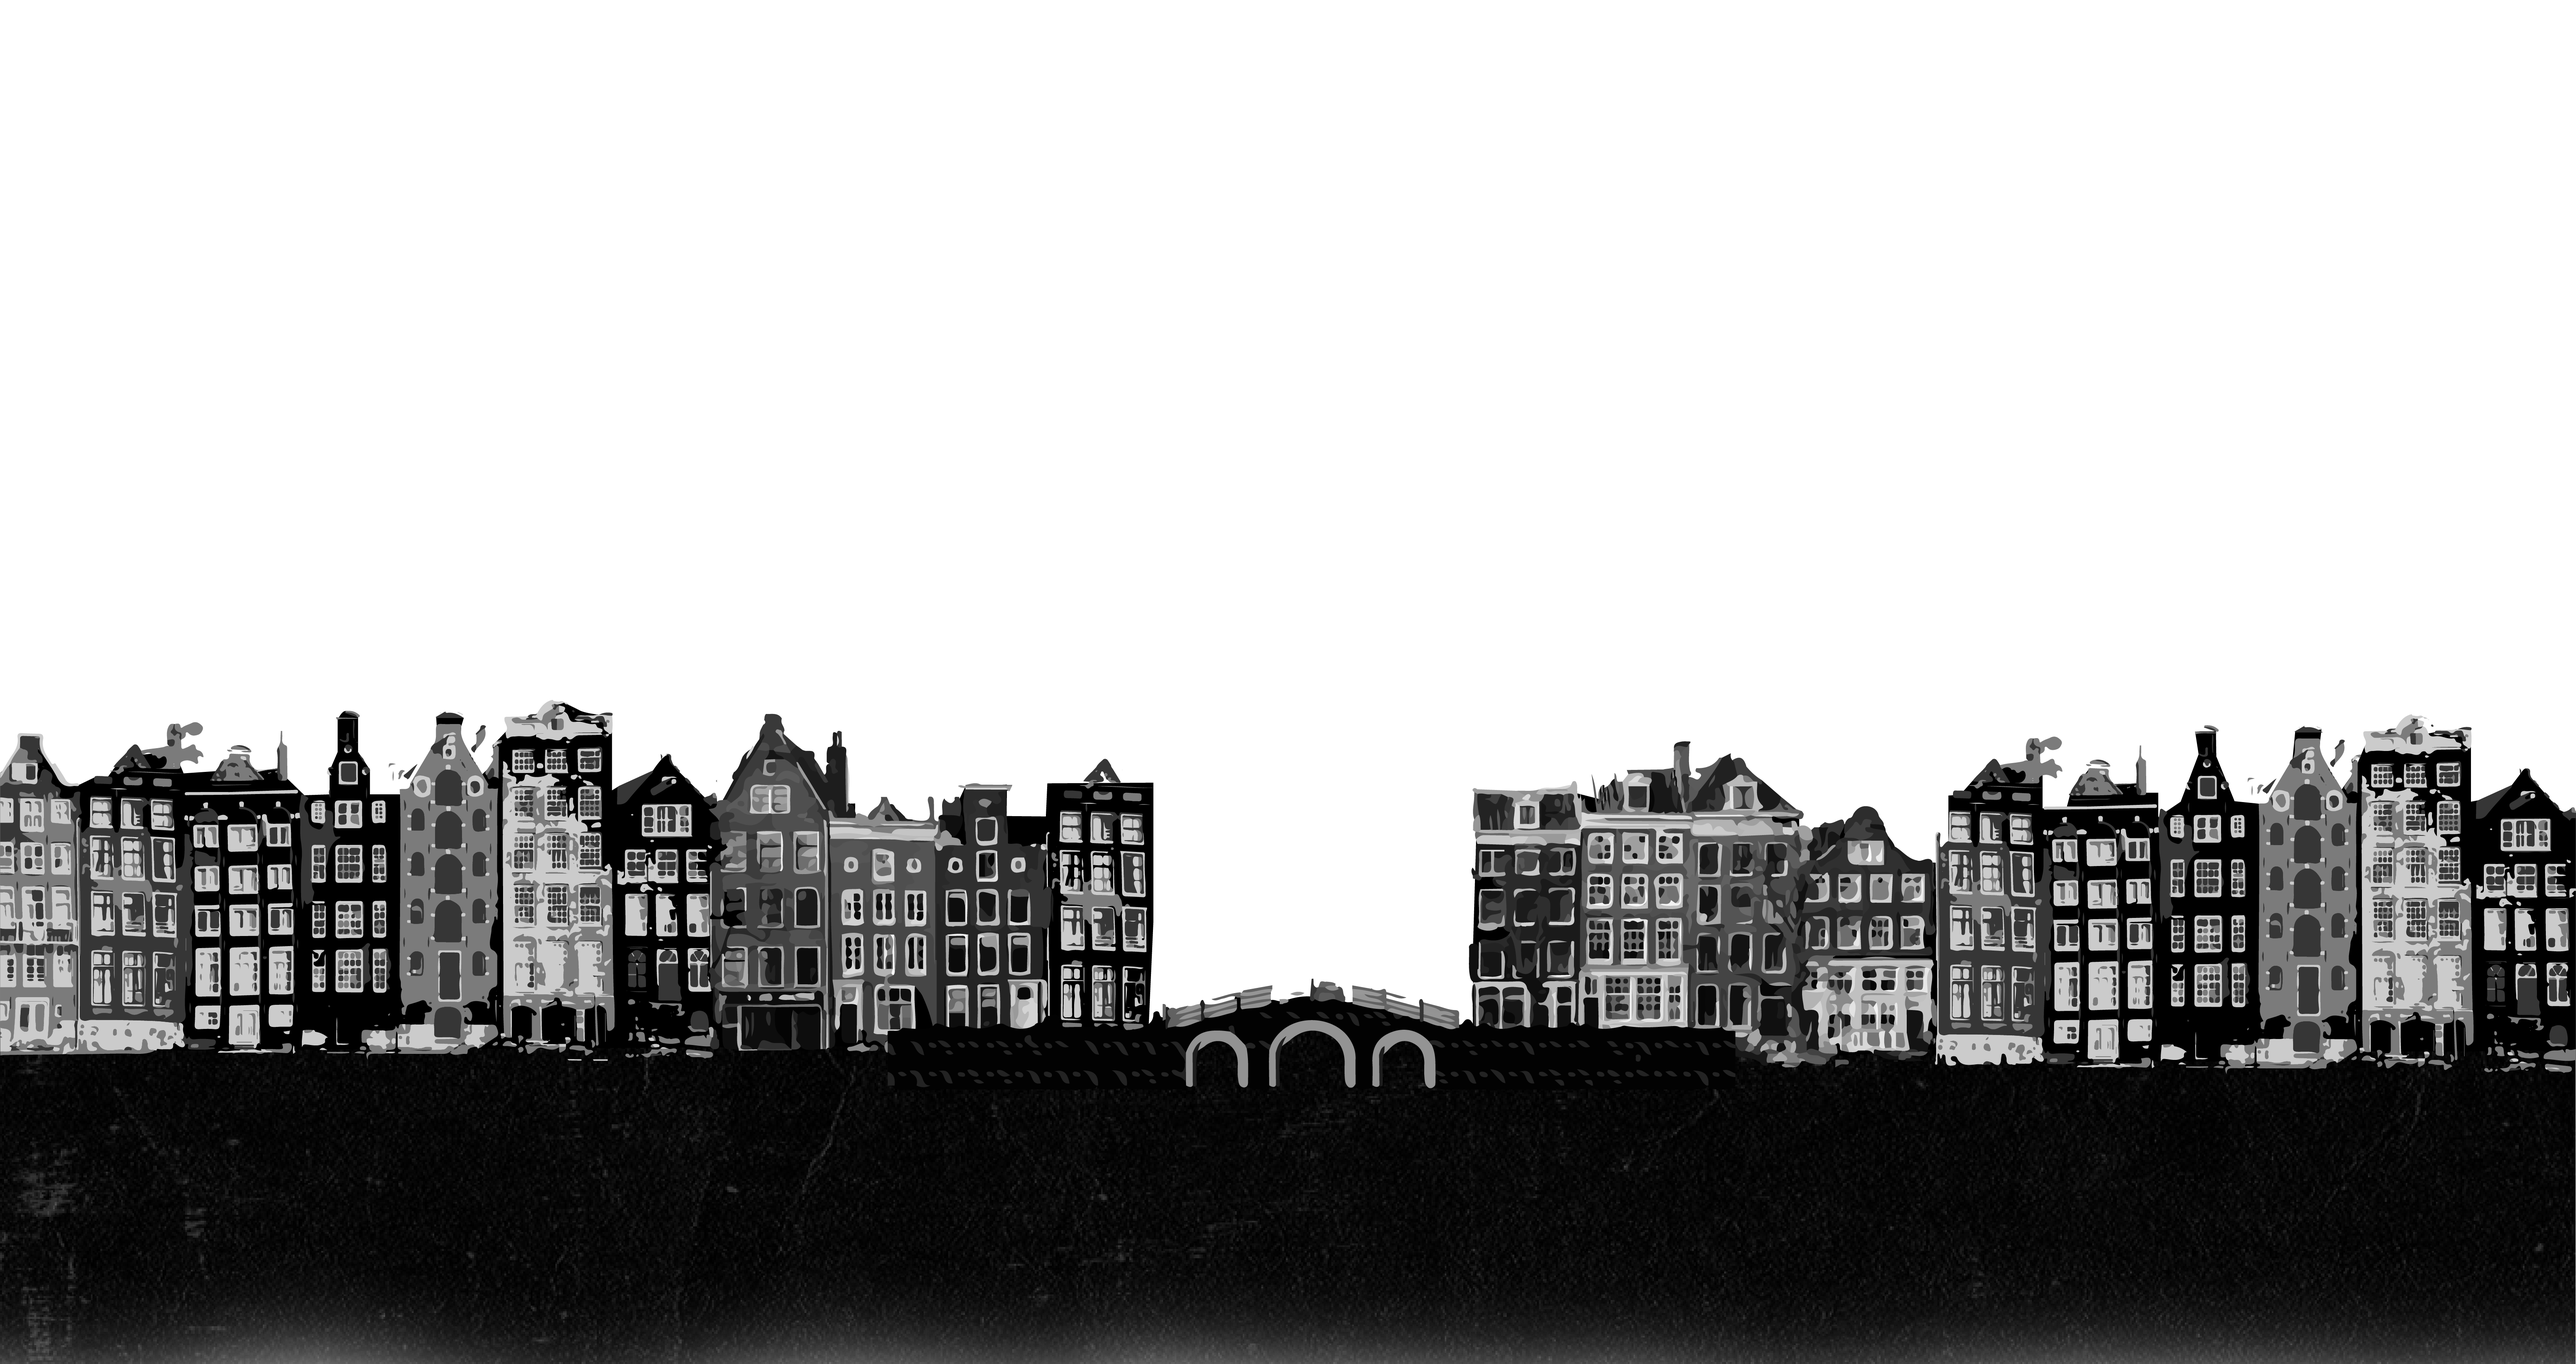
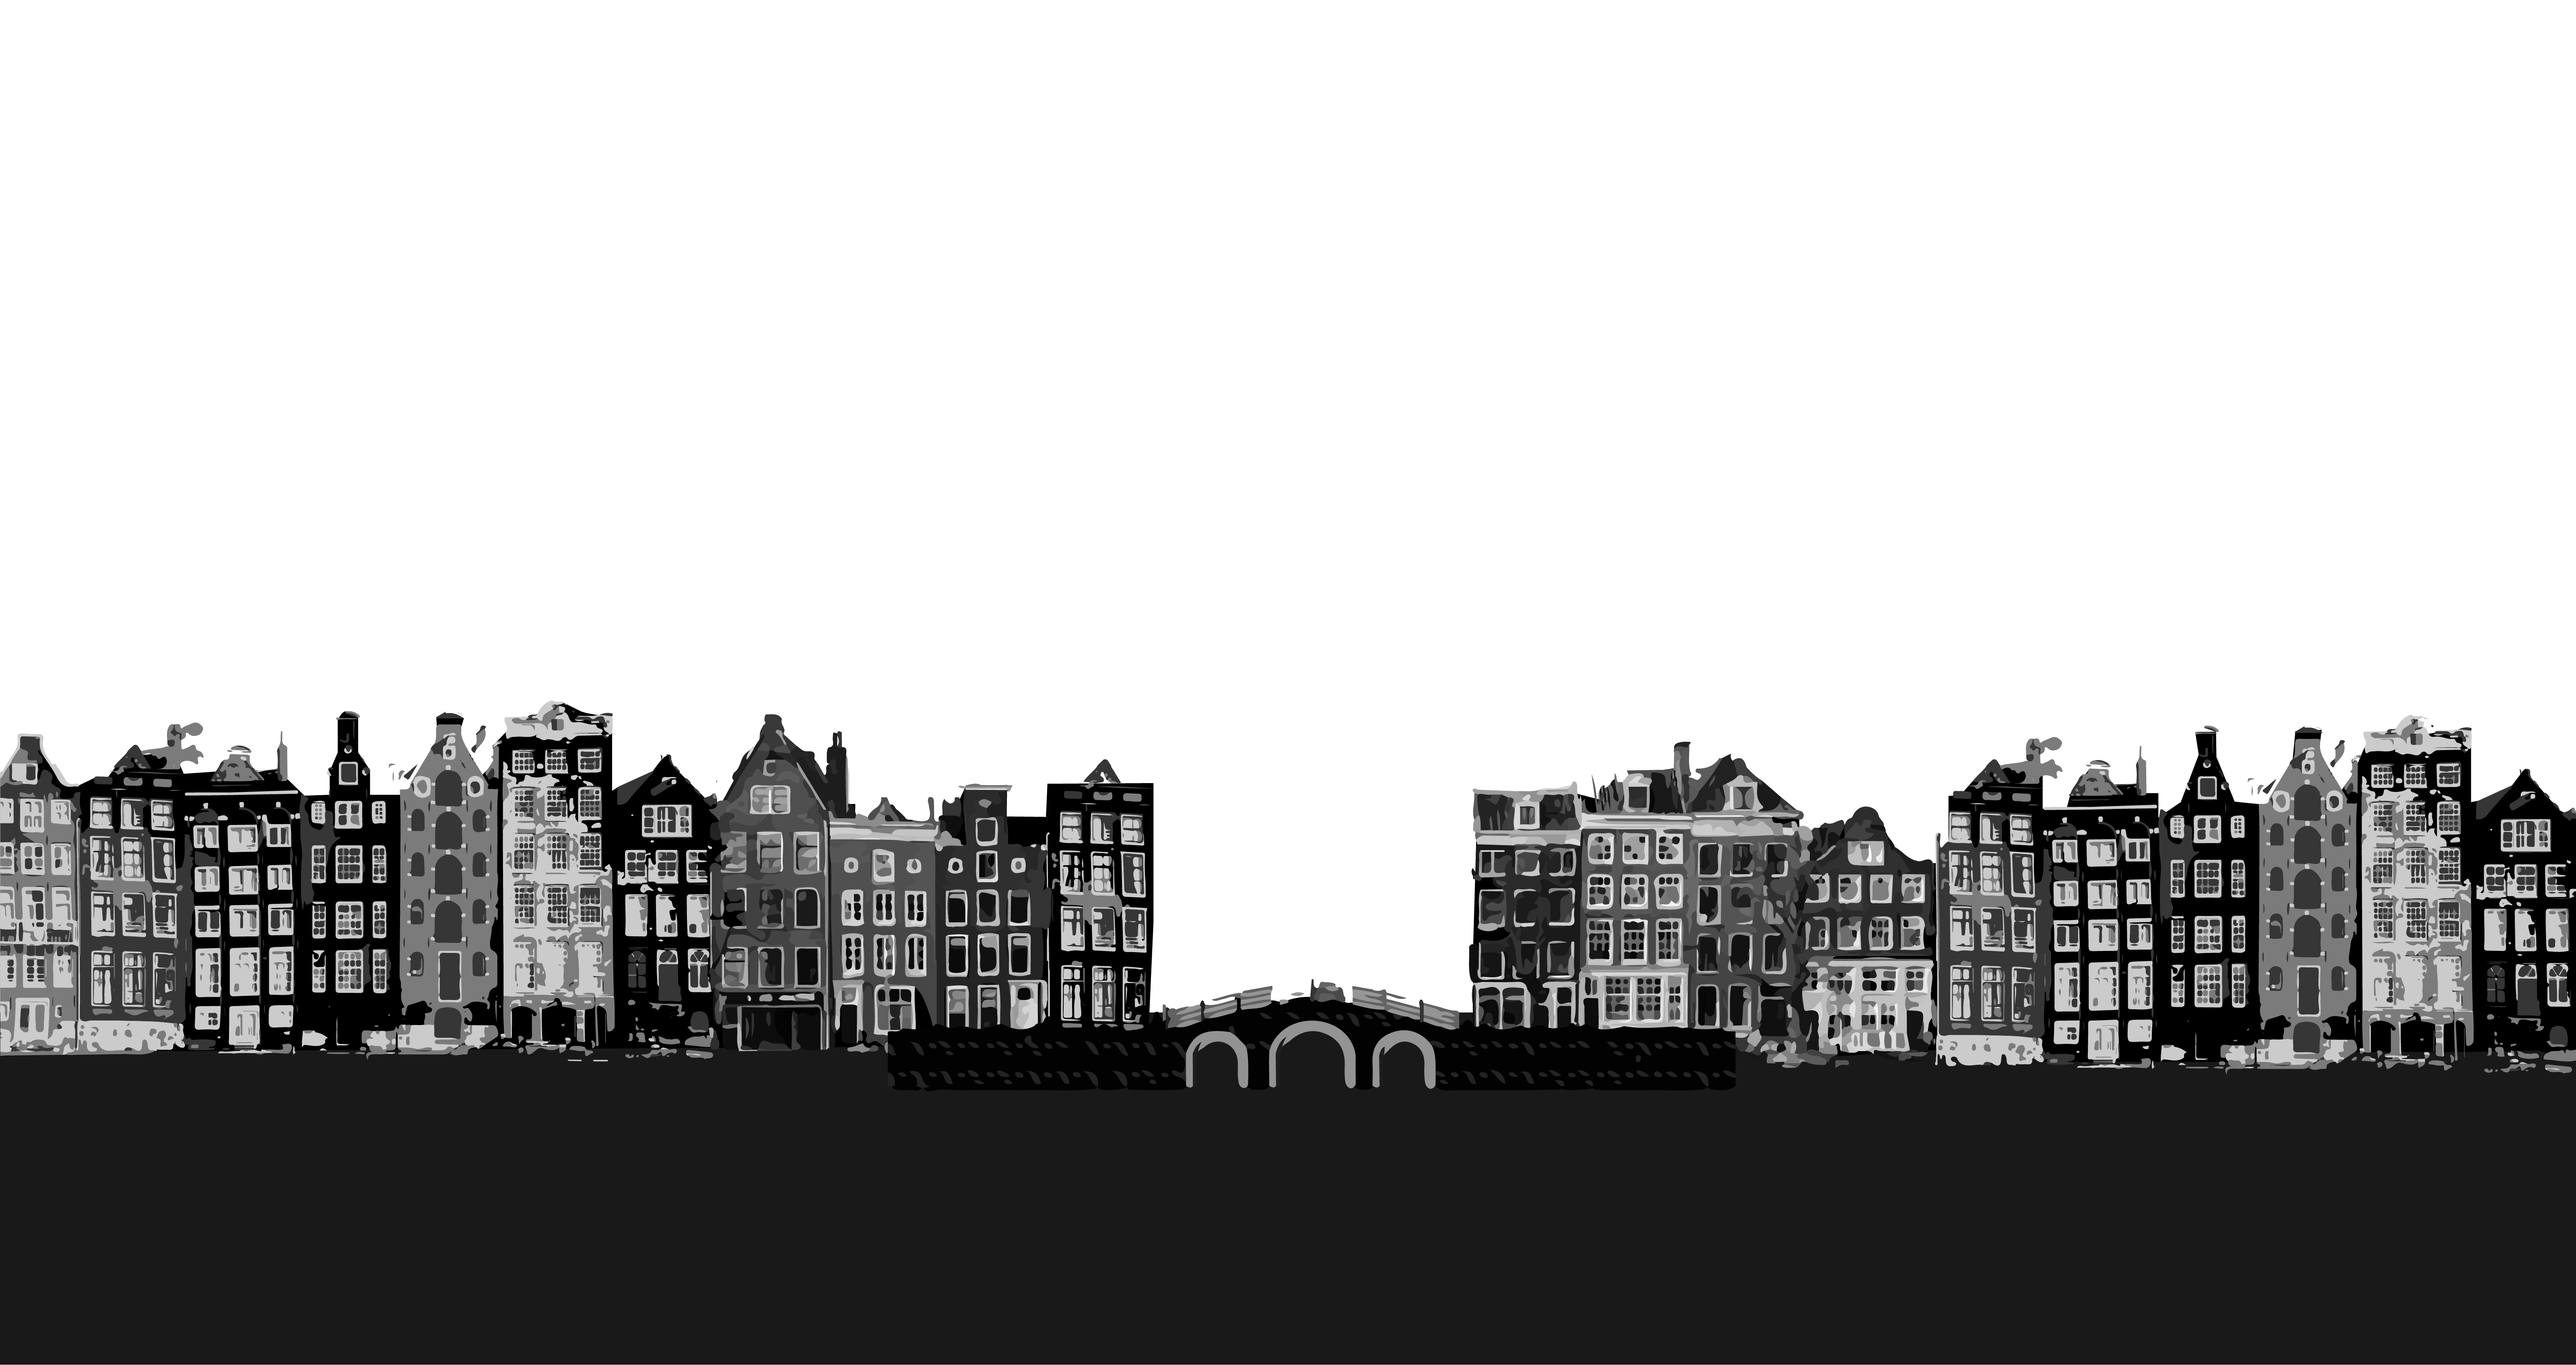
Update

diff --git a/style.css b/style.css
@@ -276,6 +276,7 @@ main {
 .wrapper {
   position: relative;
   background-color: black;
+  background: transparent;
   height: 100vh;
   width: 100vw;
   perspective: 8px;
@@ -329,12 +330,13 @@ main {
   background-repeat: no-repeat;
   background-size: 100%;
   transform: scaleX(-1) scaleY(-1);
+  background-image: -webkit-linear-gradient(97deg, #191919 52%, rgba(0, 0, 0, 0) 0%);
   display: block;
   position: absolute;
   top: 30vw;
   left: 0;
   right: 0;
-  height: 35vh;
+  height: 45vh;
   z-index: 2;
 
   margin-top: 40vh;
@@ -422,7 +424,7 @@ button:hover {
 /* INTRO */
 
 .intro {
-  padding-top: 15vh;
+  padding-top: -5vh;
   width: 200vw;
   display: flex;
 }
@@ -506,12 +508,17 @@ button:hover {
 
 .graph1 {
   /* background-color: #191919; */
-  background-image: -webkit-linear-gradient(97deg, #191919 85%, rgba(0, 0, 0, 0) 0%);
+  background-image: -webkit-linear-gradient(97deg, #191919 90%, rgba(0, 0, 0, 0) 0%);
   height: auto;
+  padding-top: 0;
+}
+
+.graph1 > h2 {
+  padding-top: 8vh;
 }
 
 .graph1 img {
-  width: 100%;
+  width: 100vw;
   margin-top: 5vh;
   background-color: #191919;
   padding: 0em 1em 5em;
@@ -521,7 +528,7 @@ button:hover {
   display: flex;
   justify-content: space-around;
   width: 100vw;
-  margin-top: 10vh;
+  margin-top: 15vh;
 }
 
 .description1 {
@@ -594,6 +601,10 @@ button:hover {
   margin-top: 10vh;
 }
 
+.graph3 section {
+  padding-top: 8vh;
+}
+
 .indicatoren3 {
   text-align: left;
   background-color: rgba(0,0,0,0.3);
@@ -608,6 +619,11 @@ button:hover {
 
 
 @media(min-width: 20em) and (max-width: 47em) {
+
+  button {
+    padding: 0.8em;
+    margin: 0.5em;
+  }
 
   .titlewrapper {
     margin-top: -150vh;
@@ -630,14 +646,33 @@ button:hover {
     bottom: -10vh;
   }
 
+  .parallax__cover {
+    background-color: transparent !important;
+    background-image: none !important;
+  }
+
 
   .research {
     padding-top: 0vh;
-    margin-top: -10vh;
+  }
+
+  .research p {
+    text-align: left;
+    width: 90vw;
+    margin-left: 5vw;
+    margin-top: 5vh;
   }
 
   .intro img {
     width: 85vw;
+  }
+
+  .graph1 section {
+    margin-top: 10vh;
+  }
+
+  section h2 {
+    font-size: 1.4em;
   }
 
   section {
@@ -660,6 +695,16 @@ button:hover {
     margin-top: 5vh;
   }
 
+  .indicatoren p {
+    color: rgba(255,255,255,0.8);
+    font-style: italic;
+    font-size: 0.9em;
+  }
+
+  .graph2 {
+    height: auto;
+  }
+
   .graph2 section {
     height: auto;
   }
@@ -676,5 +721,9 @@ button:hover {
     background-color: black;
     padding: 0.5em;
     margin-top: 5vh;
+  }
+
+  .graph3 section {
+    margin-top: 0vh;
   }
 }

diff --git a/index.html b/index.html
@@ -107,7 +107,7 @@
           Hier komt een tekst met mo- gelijk een uitleg over de grafiek.</p>
       </div>
 
-      <div class="indicatoren1">
+      <div class="indicatoren indicatoren1">
         <p class="indicator1">Verschil in aanleiding en contact met de politie van personen met wel of niet een migratieachtergrond.</p>
         <p>Verschil in resultaat van controle personen met wel of niet een migratieachtergrond.</p>
       </div>
@@ -136,7 +136,7 @@
           Bijvoorbeeld hoe werkt het en hoe kijk je ernaar.
           Hier komt een tekst met mo- gelijk een uitleg over de grafiek.</p>
 
-          <div class="indicatoren2">
+          <div class="indicatoren indicatoren2">
             <p class="indicator2">Ervaren onrecht tijdens contact met politie van personen met wel of niet een migratieachtergrond.</p>
             <p>Ervaren dat dit onrecht door huidskleur komt.</p>
           </div>
@@ -163,7 +163,7 @@
           Hier komt een tekst met mo- gelijk een uitleg over de grafiek.</p>
       </div>
 
-      <div class="indicatoren3">
+      <div class="indicatoren indicatoren3">
         <p class="indicator1">Verschil in algemeen vertrouwen in politie.</p>
       </div>
     </section>
